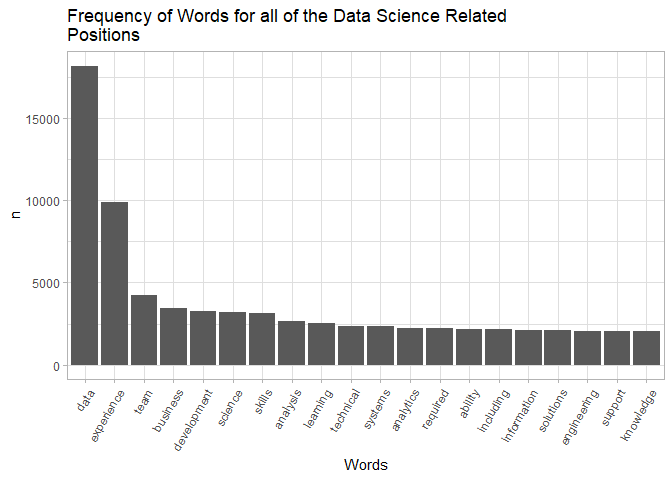
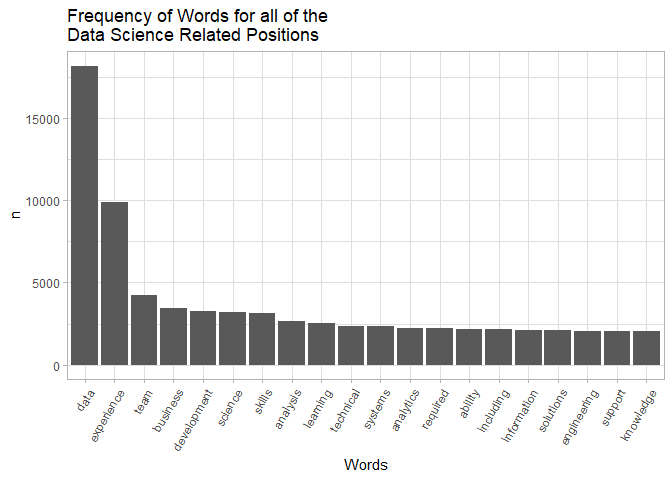
word count w/ 2 words

Changed region(s): [[0.5, 0.0, 0.75, 0.0625], [0.0938, 0.0625, 0.4688, 0.0938]]

diff --git a/Text Analysis/text_analysis.md b/Text Analysis/text_analysis.md
@@ -12,13 +12,15 @@ loadPkg = function(toLoad){
     { install.packages(lib, repos='http://cran.rstudio.com/') }
     suppressMessages( library(lib, character.only=TRUE) ) }
 }
-packs=c('tidyverse', 'tidytext', 'textdata')
+packs=c('tidyverse', 'tidytext', 'textdata', 'egg')
 loadPkg(packs)
 ```
 
     ## Warning: package 'tidytext' was built under R version 4.0.3
 
     ## Warning: package 'textdata' was built under R version 4.0.3
+
+    ## Warning: package 'egg' was built under R version 4.0.3
 
 ``` r
 library(readr)
@@ -600,14 +602,16 @@ better_line_words <- job_words %>% anti_join(stop_words)
 </details>
 
 ``` r
-better_line_words %>% count(word, sort = T) %>% slice(1:20) %>% 
+one_word <- better_line_words %>% count(word, sort = T) %>% slice(1:20) %>% 
   ggplot(aes(x = reorder(word, n, function(n) -n), y = n)) + 
   geom_bar(stat = "identity") + 
   theme_light() +
   theme(axis.text.x = element_text(angle = 60, hjust = 1)) + 
   labs(
     x = "Words",
-    title = "Frequency of Words for all of the Data Science Related\nPositions")
+    title = "Frequency of Words for all of the\nData Science Related Positions")
+
+one_word
 ```
 
 ![](text_analysis_files/figure-gfm/unnamed-chunk-28-1.png)<!-- -->
@@ -618,6 +622,85 @@ This graph is all inclusive for the data science related positions. It
 shows that applicants who are interested in a data science related
 position should have an analytical mindset. They also should be able to
 work well in teams.
+
+# Two Word Text Analysis
+
+Let’s see if we can get better results using two-word phrases for our
+text analysis.
+
+tokenize
+text
+
+``` r
+job_words <- ds_filter %>% select(job_category,job_desc) %>% unnest_tokens(word, job_desc,token = "ngrams",format = "text", n =2)
+```
+
+Remove stop words
+
+``` r
+better_line_words <- job_words %>% anti_join(stop_words)
+```
+
+    ## Joining, by = "word"
+
+``` r
+head(better_line_words[,2])
+```
+
+    ## # A tibble: 6 x 1
+    ##   word           
+    ##   <chr>          
+    ## 1 who we're      
+    ## 2 we're looking  
+    ## 3 looking for    
+    ## 4 for the        
+    ## 5 the chief      
+    ## 6 chief marketing
+
+``` r
+# split words b/c two word phrases aren't in stop words
+best <- separate(better_line_words,col = word, into = c("first", "second"), sep = " ")
+
+# now take out stop words from the two created columns
+best_line_words <- best %>% anti_join(stop_words, by = c("first"="word"))
+better_line_words <- best_line_words %>% anti_join(stop_words, by = c("second"="word"))
+
+# join the columns back together
+better_line_words$word <- paste(better_line_words$first,better_line_words$second, sep = " ")
+```
+
+Create
+visualization
+
+``` r
+two_word <- better_line_words %>% count(word, sort = T) %>% slice(1:20) %>% 
+  ggplot(aes(x = reorder(word, n, function(n) -n), y = n)) + 
+  geom_bar(stat = "identity") + 
+  theme_light() +
+  theme(axis.text.x = element_text(angle = 60, hjust = 1)) + 
+  labs(
+    x = "Words",
+    title = "Frequency of Words for all of the\nData Science Related Positions\n(2 words)")
+
+two_word
+```
+
+![](text_analysis_files/figure-gfm/unnamed-chunk-31-1.png)<!-- -->
+
+## Interpretation
+
+We did not find anything by doing a text analysis with the the most used
+words so we are now doing a text analysis with the most commonly used
+two-word phrases. Now we can see popular jobs within our data set such
+as machin learning and data scientist.
+
+# Combine Plots
+
+``` r
+ggarrange(one_word,two_word,ncol = 2, nrow = 1)
+```
+
+![](text_analysis_files/figure-gfm/unnamed-chunk-32-1.png)<!-- -->
 
 # Conclusions
 
